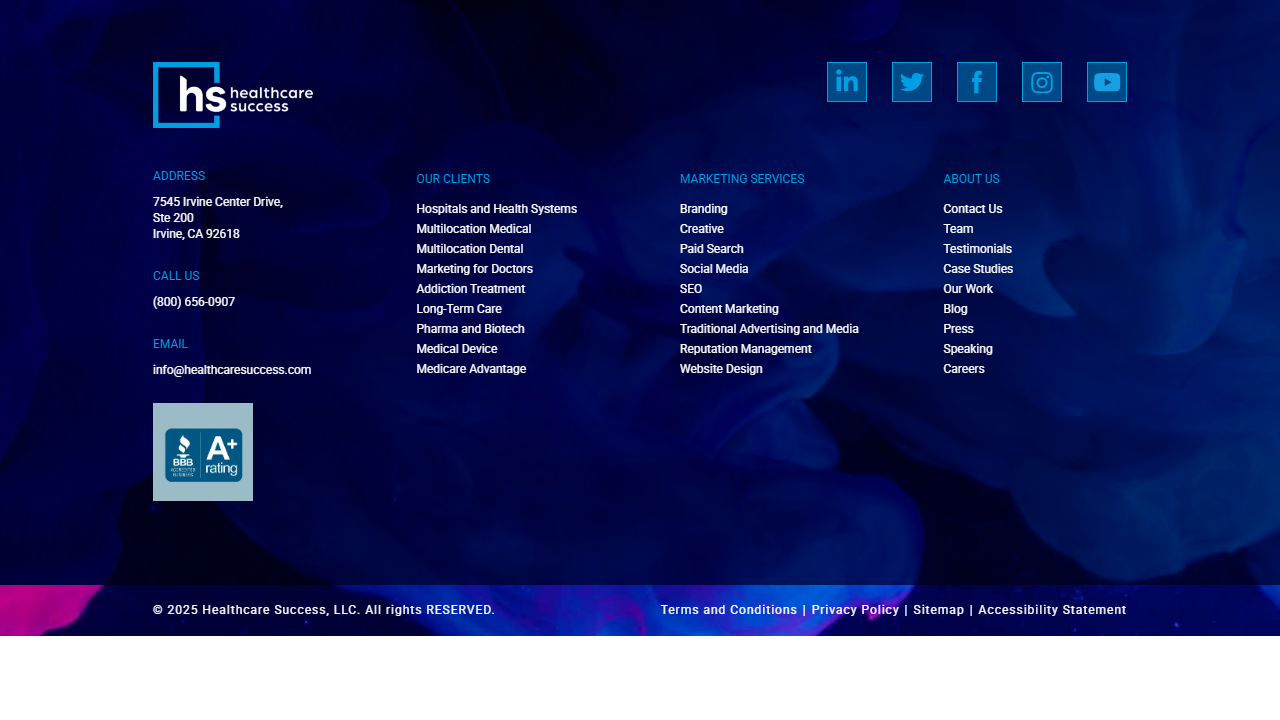
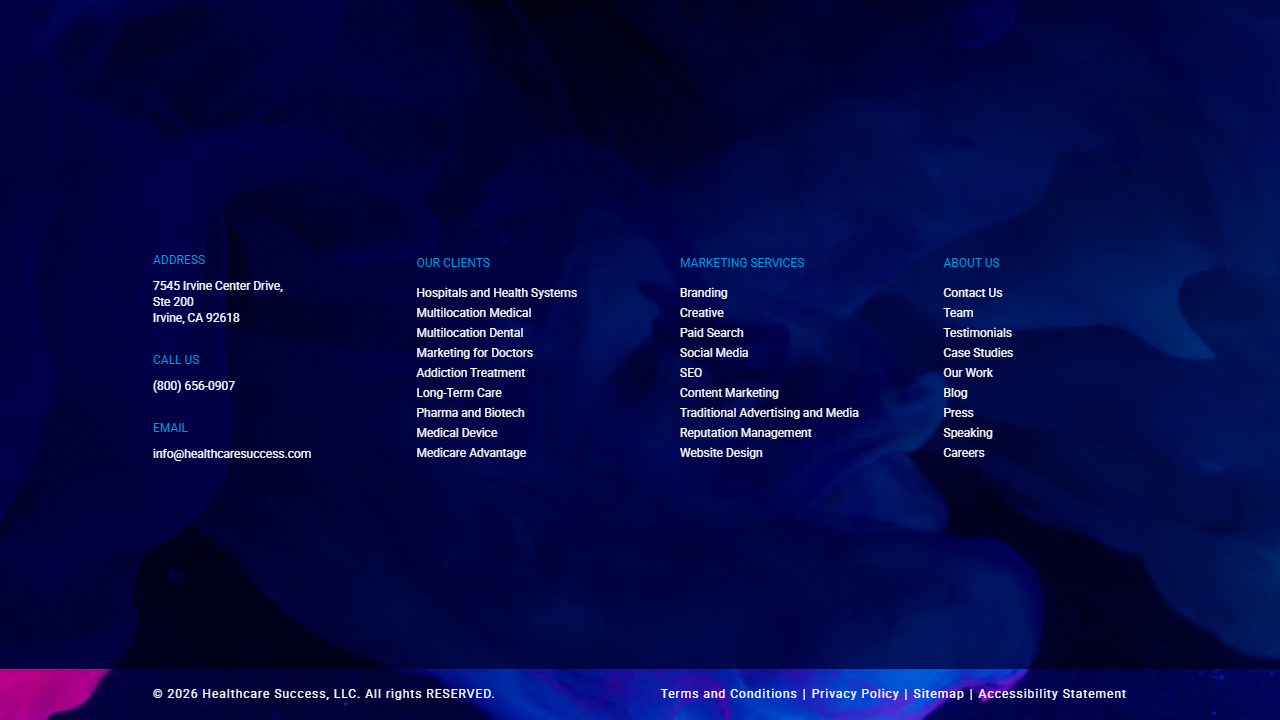
updaetd faield tests

diff --git a/tests/day6/test_scroll_healthcaresuccess.spec.js b/tests/day6/test_scroll_healthcaresuccess.spec.js
@@ -1,4 +1,4 @@
-const { test, expect } = require('@playwright/test');
+import { test, expect } from '#fixtures';
 
 test('Validate vertical scrolling on healthcaresuccess.com', async ({ page }) => {
   // Navigate to the page
@@ -9,12 +9,12 @@ test('Validate vertical scrolling on healthcaresuccess.com', async ({ page }) =>
     window.scrollTo(0, document.body.scrollHeight);
   });
 
-  // Wait for the text to be visible
-  await page.waitForSelector('text=© 2025 Healthcare Success, LLC', { timeout: 5000 });
+  // Wait for the footer text to be visible (using regex for partial match)
+  await page.waitForSelector('text=/Healthcare Success/', { timeout: 5000 });
 
   // Verify that the bottom-most content is visible
-  const bottomText = await page.$('text=© 2025 Healthcare Success, LLC');
-  expect(bottomText).toBeTruthy();
+  const bottomText = await page.locator('text=/Healthcare Success/').first();
+  await expect(bottomText).toBeVisible();
 
   // Capture a screenshot after scrolling to confirm visual rendering
   await page.screenshot({ path: 'healthcaresuccess_scrolled.png' });

diff --git a/tests/day4/test3.spec.js b/tests/day4/test3.spec.js
@@ -1,12 +1,12 @@
-const { test, expect } = require('@playwright/test');
+import { test, expect } from '#fixtures';
 
 test('OrangeHRM Login Validation', async ({ page }) => {
-  await page.goto('https://opensource-demo.orangehrmlive.com/web/index.php/auth/login');
+  await page.goto('https://opensource-demo.orangehrmlive.com/web/index.php/auth/login', { waitUntil: 'networkidle' });
 
   await page.fill('input[name="username"]', 'Admin');
   await page.fill('input[name="password"]', 'admin123');
   await page.click('button[type="submit"]');
 
-  await page.waitForSelector('h6:has-text("Dashboard")', { state: 'visible' });
-  await expect(page.locator('h6:has-text("Dashboard")')).toBeVisible();
+  await page.waitForURL(/dashboard/, { timeout: 15000 });
+  await expect(page).toHaveURL(/dashboard/);
 });

diff --git a/playwright.config.js b/playwright.config.js
@@ -1,5 +1,6 @@
 // @ts-check
 import { defineConfig, devices } from "@playwright/test";
+import { blob } from "stream/consumers";
 
 /**
  * Read environment variables from file.
@@ -23,7 +24,7 @@ export default defineConfig({
   /* Opt out of parallel tests on CI. */
   workers: process.env.CI ? 4 : undefined,
   /* Reporter to use. See https://playwright.dev/docs/test-reporters */
-  reporter: [["json", { outputFile: "test-results/results.json" }], ["html"]],
+  reporter: [["json", { outputFile: "test-results/results.json" }], ["html"],["blob"]],
   /* Shared settings for all the projects below. See https://playwright.dev/docs/api/class-testoptions. */
   use: {
     /* Base URL to use in actions like `await page.goto('')`. */

diff --git a/tests/day7/login_pom.spec.js b/tests/day7/login_pom.spec.js
@@ -1,7 +1,7 @@
-const { test, expect } = require('@playwright/test');
-const LoginPage = require('../../pages/LoginPage');
-const { BASE_URL, CREDENTIALS } = require('../../utils/constants');
-const { takeScreenshot } = require('../../utils/helpers');
+import { test, expect } from '#fixtures';
+import LoginPage from '../../pages/LoginPage.js';
+import { BASE_URL, CREDENTIALS } from '../../utils/constants.js';
+import { takeScreenshot } from '../../utils/helpers.js';
 
 test('Login using Page Object and helpers', async ({ page }) => {
   const loginPage = new LoginPage(page);

diff --git a/tests/day3/test2.spec.js b/tests/day3/test2.spec.js
@@ -19,8 +19,10 @@
 import { test, expect } from '#fixtures';
 test('OrangeHRM Login Validation', async ({ page }) => {
   await page.goto('https://opensource-demo.orangehrmlive.com/web/index.php/auth/login');
+  await page.waitForLoadState('networkidle');
   await page.getByPlaceholder('Username').fill('Admin');
   await page.getByPlaceholder('Password').fill('admin123');
   await page.getByRole('button', { name: 'Login' }).click();
+  await page.waitForLoadState('networkidle');
   await expect(page).toHaveURL(/dashboard/);
 });

diff --git a/utils/helpers.js b/utils/helpers.js
@@ -1,12 +1,10 @@
-const fs = require('fs');
-const path = require('path');
+import fs from 'fs';
+import path from 'path';
 
-async function takeScreenshot(page, name) {
+export async function takeScreenshot(page, name) {
   const dir = path.join(process.cwd(), 'test-results');
   if (!fs.existsSync(dir)) fs.mkdirSync(dir, { recursive: true });
   const file = path.join(dir, `${name}.png`);
   await page.screenshot({ path: file, fullPage: true });
   return file;
 }
-
-module.exports = { takeScreenshot };

diff --git a/tests/day7/healthcare_success_testimonials.spec.js b/tests/day7/healthcare_success_testimonials.spec.js
@@ -1,7 +1,11 @@
 // @ts-check
-const { test, expect } = require('@playwright/test');
-const fs = require('fs');
-const path = require('path');
+import { test, expect } from '#fixtures';
+import fs from 'fs';
+import path from 'path';
+import { fileURLToPath } from 'url';
+
+const __filename = fileURLToPath(import.meta.url);
+const __dirname = path.dirname(__filename);
 
 test('Extract testimonials from Healthcare Success and write to file', async ({ page }) => {
   try {

diff --git a/tests/day5/test_file_upload.spec.js b/tests/day5/test_file_upload.spec.js
@@ -1,5 +1,9 @@
-const { test, expect } = require('@playwright/test');
-const path = require('path');
+import { test, expect } from '#fixtures';
+import path from 'path';
+import { fileURLToPath } from 'url';
+
+const __filename = fileURLToPath(import.meta.url);
+const __dirname = path.dirname(__filename);
 
 test('W3Schools File Upload Validation', async ({ page }) => {
   await page.goto('https://www.w3schools.com/howto/howto_html_file_upload_button.asp');

diff --git a/utils/constants.js b/utils/constants.js
@@ -1,7 +1,5 @@
-module.exports = {
-  BASE_URL: 'https://www.saucedemo.com',
-  CREDENTIALS: {
-    username: 'standard_user',
-    password: 'secret_sauce'
-  }
+export const BASE_URL = 'https://www.saucedemo.com';
+export const CREDENTIALS = {
+  username: 'standard_user',
+  password: 'secret_sauce'
 };

diff --git a/tests/day5/test_multi_select.spec.js b/tests/day5/test_multi_select.spec.js
@@ -1,4 +1,4 @@
-const { test, expect } = require('@playwright/test');
+import { test, expect } from '#fixtures';
 
 test('Multi-Select Listbox Validation on TestAutomationCentral', async ({ page }) => {
   await page.goto('https://testautomationcentral.com/demo/multi_select_dropdown.html');

diff --git a/tests/day6/healthcaresuccess.spec.js b/tests/day6/healthcaresuccess.spec.js
@@ -1,5 +1,5 @@
-const { test, expect } = require('@playwright/test');
-const fs = require('fs');
+import { test, expect } from '#fixtures';
+import fs from 'fs';
 
 test.skip('Healthcare Success Screenshot Comparison', async ({ page }) => {
   await page.goto('https://healthcaresuccess.com');

diff --git a/tests/day5/test_range_slider.spec.js b/tests/day5/test_range_slider.spec.js
@@ -1,4 +1,4 @@
-const { test, expect } = require('@playwright/test');
+import { test, expect } from '#fixtures';
 
 test('simple dojo horizontal slider test', async ({ page }) => {
   await page.goto('https://dojotoolkit.org/documentation/tutorials/1.9/sliders/demos/simple.php');
